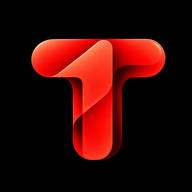
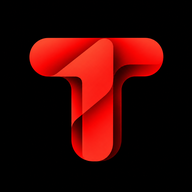
fix: 앱 로고 이미지를 더 선명한 버전으로 교체 (#764)
icon-192.png / icon-512.png / apple-touch-icon.png와
icons/splash/*.png(기기별 10종)를 새로 받은 로고 원본으로 다시 생성
(이전 버전 대비 미세한 압축/선명도 차이, 같은 디자인).

Claude-Session: https://claude.ai/code/session_01TNoGCWRQtXcfdnQwZ6HvCX

Changed region(s): [[0.125, 0.1875, 0.875, 0.8438]]

diff --git a/index.html b/index.html
@@ -12073,7 +12073,7 @@ const settingsHeaderName = document.getElementById("settingsHeaderName");
 const settingsHeaderSub = document.getElementById("settingsHeaderSub");
 
 /* ✅ 앱 버전 정의 — 의미 있는 수정/배포마다 올림(설정 화면에서 "최신 버전 받았는지" 확인용) */
-const APP_VERSION = "0.9.300";
+const APP_VERSION = "0.9.301";
 const appVersionDisplay = document.getElementById("appVersionDisplay");
 if (appVersionDisplay) {
   appVersionDisplay.textContent = APP_VERSION;
